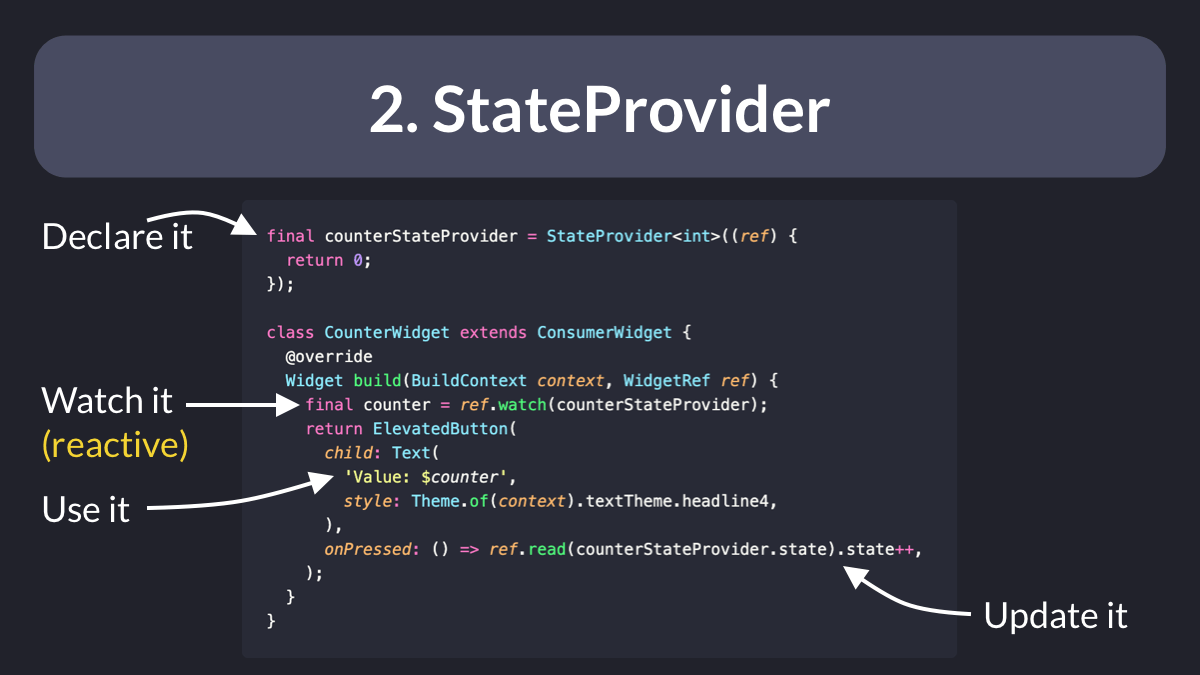
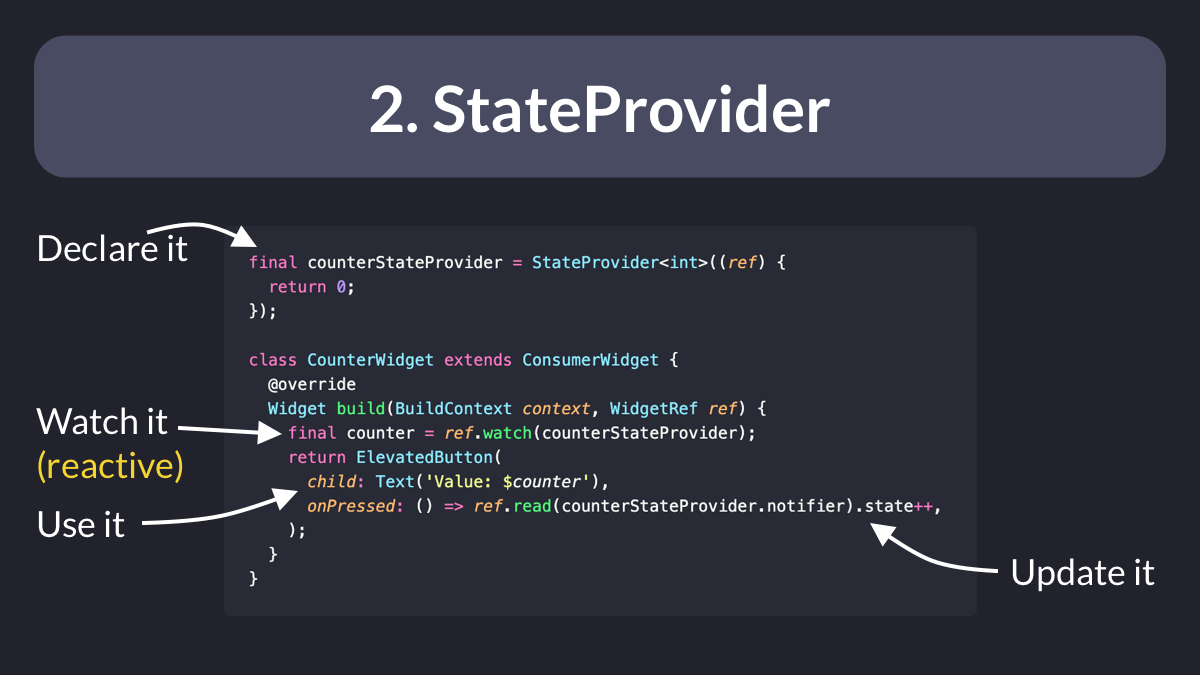
Update thread 64

diff --git a/tips/0064-all-riverpod-providers/main.dart b/tips/0064-all-riverpod-providers/main.dart
@@ -26,7 +26,7 @@ class CounterWidget extends ConsumerWidget {
     final counter = ref.watch(counterStateProvider);
     return ElevatedButton(
       child: Text('Value: $counter'),
-      onPressed: () => ref.read(counterStateProvider.state).state++,
+      onPressed: () => ref.read(counterStateProvider.notifier).state++,
     );
   }
 }
@@ -45,15 +45,19 @@ class AuthController extends StateNotifier<AsyncValue<void>> {
   }
 }
 
-final authControllerProvider = StateNotifierProvider<
+final authControllerProvider =
+  StateNotifierProvider<
     AuthController, AsyncValue<void>>((ref) {
   return AuthController(ref);
 });
 
 Widget build(BuildContext context, WidgetRef ref) {
+  final state = ref.watch(authControllerProvider);
   return ElevatedButton(
-    onPressed: () => ref.read(authControllerProvider).signOut(),
     child: const Text('Logout'),
+    onPressed: state.isLoading
+      ? null
+      : () => ref.read(authControllerProvider.notifier).signOut(),
   );
 }
 

diff --git a/tips/0064-all-riverpod-providers/index.md b/tips/0064-all-riverpod-providers/index.md
@@ -98,4 +98,4 @@ Then check out my extensive (and free) guide about Riverpod:
 
 | Previous | Next |
 | -------- | ---- |
-| [Explicit error types with Either](../0063-either-type-fpdart/index.md) | [Which Riverpod Provider should you use?](../0064-all-riverpod-providers/index.md) |
+| [Explicit error types with Either](../0063-either-type-fpdart/index.md) |  |
